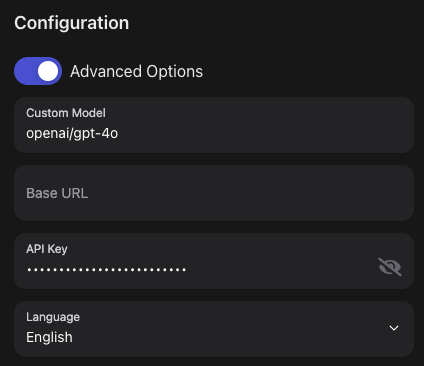
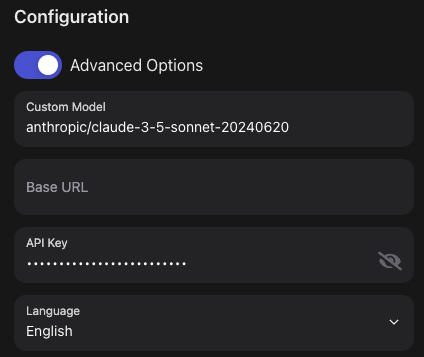
Make Claude Sonnet 3.5 the recommended model and update docs accordingly (#4151)

diff --git a/docs/modules/usage/llms/llms.md b/docs/modules/usage/llms/llms.md
@@ -7,11 +7,10 @@ sidebar_position: 3
 OpenHands can connect to any LLM supported by LiteLLM. However, it requires a powerful model to work.
 The following are verified by the community to work with OpenHands:
 
-* claude-3-5-sonnet
+* claude-3-5-sonnet (recommended)
 * gemini-1.5-pro / gemini-1.5-flash
 * gpt-4 / gpt-4o
 * llama-3.1-405b / hermes-3-llama-3.1-405b
-* wizardlm-2-8x22b
 
 :::warning
 OpenHands will issue many prompts to the LLM you configure. Most of these LLMs cost money, so be sure to set spending
@@ -68,7 +67,7 @@ You can customize these options as you need for the provider you're using. Check
 * `LLM_RETRY_MAX_WAIT` (Default of 120 seconds)
 * `LLM_RETRY_MULTIPLIER` (Default of 2)
 
-If you running `openhands` in development mode, you can also set these options to the values you need in `config.toml` file:
+If you are running OpenHands in development mode, you can also set these options in the `config.toml` file:
 
 ```toml
 [llm]

diff --git a/docs/modules/usage/llms/groq.md b/docs/modules/usage/llms/groq.md
@@ -8,8 +8,8 @@ When running OpenHands, you'll need to set the following in the OpenHands UI thr
 * `LLM Provider` to `Groq`
 * `LLM Model` to the model you will be using. [Visit here to see the list of
 models that Groq hosts](https://console.groq.com/docs/models). If the model is not in the list, toggle
-`Advanced Options`, and enter it in `Custom Model` (e.g. groq/&lt;model-name&gt; like `groq/llama3-70b-8192`)
-* `API key` to your Groq API key. To find or create your Groq API Key, [see here](https://console.groq.com/keys)
+`Advanced Options`, and enter it in `Custom Model` (e.g. groq/&lt;model-name&gt; like `groq/llama3-70b-8192`).
+* `API key` to your Groq API key. To find or create your Groq API Key, [see here](https://console.groq.com/keys).
 
 
 

diff --git a/docs/modules/usage/how-to/cli-mode.md b/docs/modules/usage/how-to/cli-mode.md
@@ -8,7 +8,7 @@ This mode is different from the [headless mode](headless-mode), which is non-int
 
 To start an interactive OpenHands session via the command line, follow these steps:
 
-1. Ensure you have followed the [Development setup instructions](https://github.com/All-Hands-AI/OpenHands/blob/main/Development.md)
+1. Ensure you have followed the [Development setup instructions](https://github.com/All-Hands-AI/OpenHands/blob/main/Development.md).
 
 2. Run the following command:
 

diff --git a/docs/modules/usage/how-to/custom-sandbox-guide.md b/docs/modules/usage/how-to/custom-sandbox-guide.md
@@ -9,8 +9,8 @@ as python and Node.js but your use case may need additional software installed b
 
 There are two ways you can do so:
 
-1. Use an existing image from docker hub
-2. Creating your own custom docker image and using it
+1. Use an existing image from docker hub.
+2. Creating your own custom docker image and using it.
 
 If you want to take the first approach, you can skip the `Create Your Docker Image` section.
 
